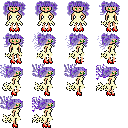
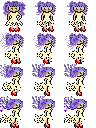
NG

diff --git a/index.html b/index.html
@@ -17,14 +17,14 @@
 <h1> Hey <h1>
 <p1> Currently Under Construction - hold on. <p1>
 
-<canvas id="myCanvas" width="480" height="320"></canvas>
+<canvas></canvas>
 
 <!-- code for game -->
 <script>
   var cx = document.querySelector("canvas").getContext("2d");
   var img = document.createElement("img");
   img.src = "NewGirl.png";
-  var spriteW = 24, spriteH = 30;
+  var spriteW = 96, spriteH = 128;
   img.addEventListener("load", function() {
     var cycle = 0;
     setInterval(function() {
@@ -34,7 +34,7 @@
                    cycle * spriteW, 0, spriteW, spriteH,
                    // destination rectangle
                    0,               0, spriteW, spriteH);
-      cycle = (cycle + 1) % 8;
+      cycle = (cycle + 1) % 12;
     }, 120);
   });
 	
